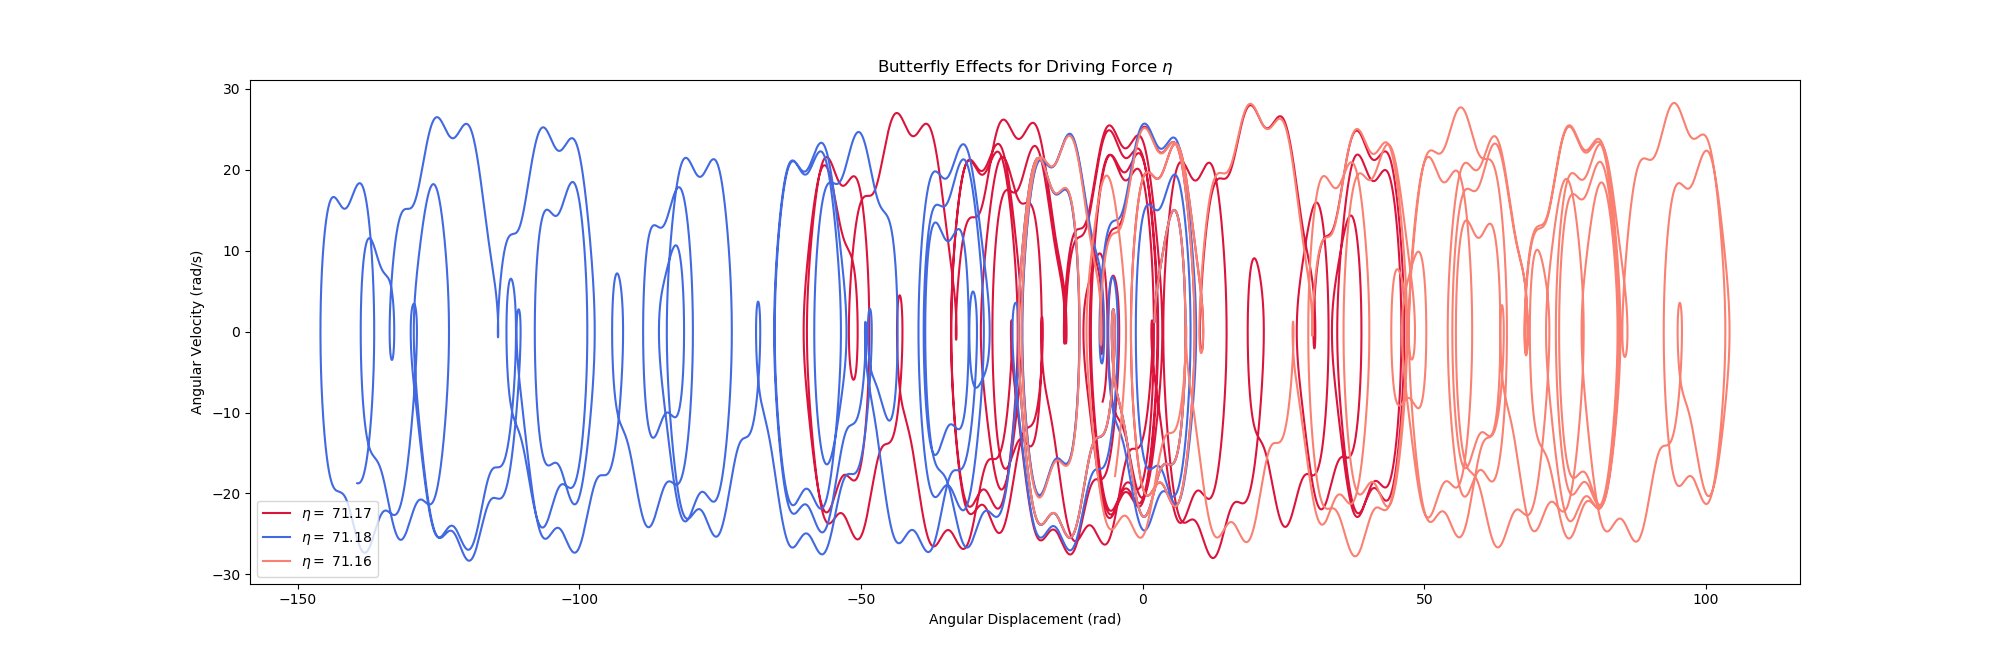
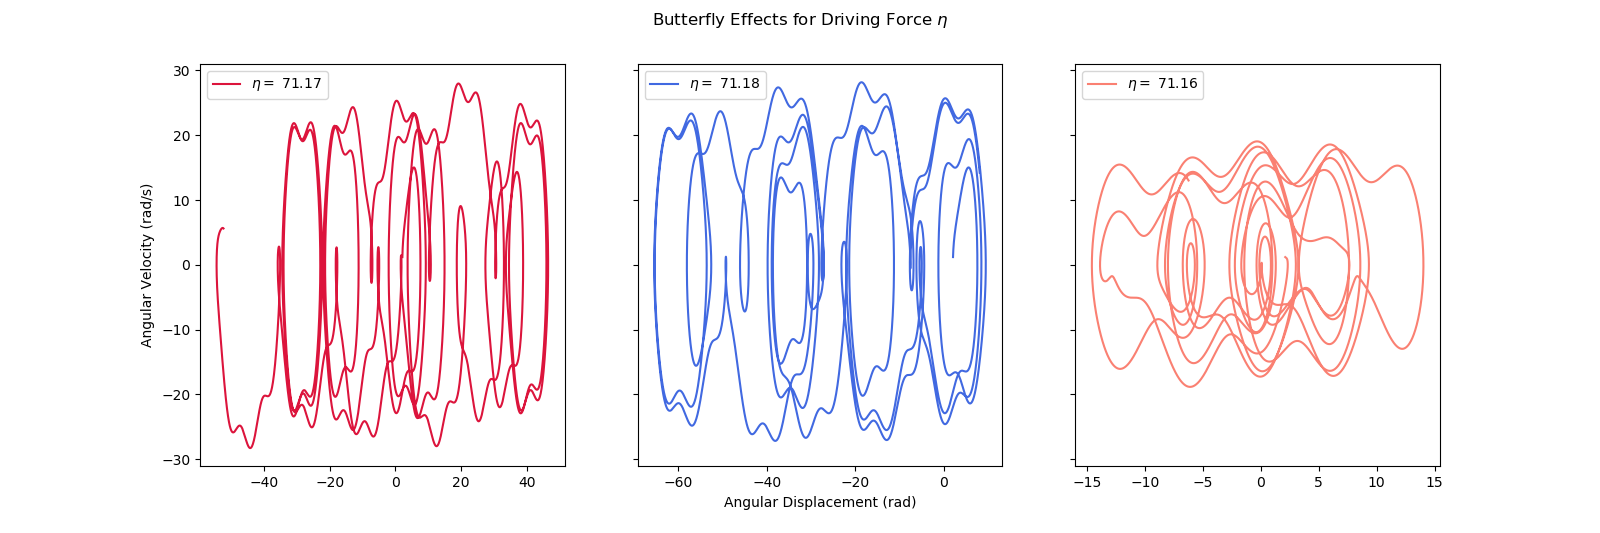
bifurcation now works

diff --git a/Pendulum Code/bifurcation.py b/Pendulum Code/bifurcation.py
@@ -30,20 +30,20 @@ I = (1/3)*m_1*L*L + (L+r)**2*m_2
 
 
 parameters['M'] = m_1 + m_2
-parameters['omega_0'] = 1 #np.sqrt((parameters['M']*g*L_cm)/I)
+parameters['omega_0'] = np.sqrt((parameters['M']*g*L_cm)/I)
 parameters['kappa'] = 0.1
-parameters['omega_d'] = 2
+parameters['omega_d'] = 0.56*np.sqrt((parameters['M']*g*L_cm)/I)
 parameters['eta'] = 30
 T_drive = (2*np.pi)/parameters['omega_d']
 print(parameters['omega_0'])
 print(parameters['omega_d'], T_drive, T_drive*150, parameters['kappa'])
 
-transtime = 150
-#when cos term is zero
-initialdrivetime = (transtime*np.arccos(0) + np.pi/2)/transtime*parameters['omega_d']
-numoftimes = 100000
+step = 0.001
+lim = 200
+num = int(lim/step)
 
-times = np.linspace(0, 500, 150000)
+times = np.linspace(0, lim, num + 1)
+
 y_0 = [1., 1.]
 
 yvals = RK4(pendulumTorque, y_0, times, parameters)
@@ -54,7 +54,7 @@ plotargs['lineshape'] = '-'
 
 #pp.displacementplot(times, yvals, plotargs)
 
-etas = np.linspace(0, 5, 1000)
+etas = np.linspace(45, 60, 50)
 velocities = [] 
 
 #def bifurcation()
@@ -64,16 +64,31 @@ for i in range(len(etas)):
     tol = 0.0006
     parameters['eta'] = etas[i]
     yvals = RK4(pendulumTorque, y_0, times, parameters)
-    l = 1
-    limit = int(numoftimes/2)
+    print(i)
+    limit = int(num/2)
     for t in times[limit:]:
-        k = np.where(times == t)
-        #print(k)
-        if np.abs(parameters['eta']*np.cos(parameters['omega_d']*t
-                  +parameters['delta'])*np.sin(yvals[k,0])) <= tol:
-            vel = np.abs(yvals[k, 1][0][0])
+        k = int(np.where(times == t)[0])
+        
+        init = parameters['eta']*np.cos(parameters['omega_d']*times[k-2]
+                  +parameters['delta'])*np.sin(yvals[k-1,0])
+        
+        fin = parameters['eta']*np.cos(parameters['omega_d']*times[k]
+                  +parameters['delta'])*np.sin(yvals[k,0])
+        if init*fin<=0:
+            #print(init, fin)
+            vel = np.abs(yvals[k-1, 1])
+            #print(vel)
             velocities.append(vel)
-            break
+    et = [etas[i]] * len(velocities)
+    plt.plot(et, velocities, '.', c='crimson')
+    plt.xlabel(r'$\eta$')
+    plt.ylabel(r'$|\dot\phi|$')
+    plt.title(r'Bifurcation Diagram for Varying $\eta$')
+    plt.figaspect((3,2))
+    plt.rcParams((8,5.33))
+    
+    velocities = []
+            #break
             #plt.plot(etas[i], vel, ',', color='crimson')
         #l += 1    
         #if l == 150:
@@ -81,17 +96,19 @@ for i in range(len(etas)):
 print(etas)
 print(velocities)
 
-fig, axs = plt.subplots()
+plt.savefig('birfurcationdiagram.png', dpi=100)
 
-axs.plot(etas, velocities, ',', color='crimson')
-axs.set_title(r'Bifurcation Diagram for $\dot\phi = {},  \phi = {}, \omega_0 = {}, \omega_d = {}, \kappa = {}$'.format(y_0[1], y_0[0], 
-              parameters['omega_0'], parameters['omega_d'], parameters['kappa']))
+#fig, axs = plt.subplots()
 
-axs.set_xlabel(r'$\eta$')
-axs.set_ylabel(r'$|\dot\phi(t)|$')
-fig.set_size_inches(8, 5.33)
-fig.savefig('bifurcationdiagram.png', dpi=100)
-plt.show()
+#axs.plot(etas, velocities, '.', color='crimson')
+#axs.set_title(r'Bifurcation Diagram for $\dot\phi = {},  \phi = {}, \omega_0 = {}, \omega_d = {}, \kappa = {}$'.format(y_0[1], y_0[0], 
+ #             parameters['omega_0'], parameters['omega_d'], parameters['kappa']))
+
+#axs.set_xlabel(r'$\eta$')
+#axs.set_ylabel(r'$|\dot\phi(t)|$')
+#fig.set_size_inches(8, 5.33)
+#fig.savefig('bifurcationdiagram.png', dpi=100)
+#plt.show()
 
 
 

diff --git a/Pendulum Code/Section3-2.py b/Pendulum Code/Section3-2.py
@@ -39,7 +39,11 @@ parameters['delta'] = 0.
 
 T = (2*np.pi)/parameters['omega_0']
 
-times = np.linspace(0, 50, 100000)
+step = 0.001
+lim = 30
+num = int(lim/step)
+
+times = np.linspace(0, lim, num + 1)
 
 initialvals = np.linspace(np.pi/15, np.pi/1.1, 3)
 phi_in = 2.1
@@ -76,7 +80,7 @@ y2 = RK4(pendulum, y_0, times, parameters)
 
 parameters['kappa'] = 2*parameters['omega_0']*0.1
 parameters['omega_d'] = parameters['omega_0']*0.56
-parameters['eta'] = 71.16
+parameters['eta'] = 40
 y3 = RK4(pendulum, y_0, times, parameters)
 
 etas = [71.17, 71.18, 71.16]
@@ -89,23 +93,29 @@ axs1.set_xlabel('Time (s)')
 axs1.set_ylabel('Angular Displacement (rad)')
 axs1.set_title(r'Butterfly Effects for Driving Force $\eta$')
 axs1.legend(loc=3)
-fig1.set_size_inches(20, 6.67)
+fig1.set_size_inches(8, 5.33)
 fig1.savefig('butterflyeffect.png', dpi=100)
 plt.show()
 
 
 
-fig2, axs2 = plt.subplots()
+fig2, axs2 = plt.subplots(1,3, sharey=True)
 
-axs2.plot(y1[:,0], y1[:,1], '-', color='crimson', label=r'$\eta = $ {}'.format(etas[0]))
-axs2.plot(y2[:,0], y2[:,1], '-', color='royalblue', label=r'$\eta = $ {}'.format(etas[1]))
-axs2.plot(y3[:,0], y3[:,1], '-', color='salmon', label=r'$\eta = $ {}'.format(etas[2]))
+axs2[0].plot(y1[:,0], y1[:,1], '-', color='crimson', label=r'$\eta = $ {}'.format(etas[0]))
+axs2[1].plot(y2[:,0], y2[:,1], '-', color='royalblue', label=r'$\eta = $ {}'.format(etas[1]))
+axs2[2].plot(y3[:,0], y3[:,1], '-', color='salmon', label=r'$\eta = $ {}'.format(etas[2]))
 
-axs2.set_xlabel('Angular Displacement (rad)')
-axs2.set_ylabel('Angular Velocity (rad/s)')
-axs2.set_title(r'Butterfly Effects for Driving Force $\eta$')
-axs2.legend(loc=3)
-fig2.set_size_inches(20, 6.67)
+#axs2[0].set_xlabel('Angular Displacement (rad)')
+axs2[1].set_xlabel('Angular Displacement (rad)')
+#axs2[2].set_xlabel('Angular Displacement (rad)')
+
+axs2[0].set_ylabel('Angular Velocity (rad/s)')
+fig2.suptitle(r'Butterfly Effects for Driving Force $\eta$')
+axs2[0].legend(loc=2)
+axs2[1].legend(loc=2)
+axs2[2].legend(loc=2)
+
+fig2.set_size_inches(16, 5.33)
 fig2.savefig('butterflyphasespace.png', dpi=100)
 plt.show()
 

diff --git a/Pendulum Code/section3-1.py b/Pendulum Code/section3-1.py
@@ -30,22 +30,26 @@ I = (1/3)*m_1*L*L + (L+r)**2*m_2
 
 parameters['M'] = m_1 + m_2
 parameters['omega_0'] = np.sqrt((parameters['M']*g*L_cm)/I)
-parameters['omega_d'] = parameters['omega_0']*1.67
-parameters['kappa'] = 2*parameters['omega_0']*0.12
-parameters['eta'] = 23
+parameters['omega_d'] = parameters['omega_0']*0.56
+parameters['kappa'] = 2*parameters['omega_0']*0.1
+parameters['eta'] = 50
 parameters['delta'] = 0.
 
 
 T = (2*np.pi)/parameters['omega_0']
 
-times = np.linspace(0, 10, 25000)
+step = 0.001
+lim = 25
+num = int(lim/step)
+
+times = np.linspace(0, lim, num + 1)
 
 initialvals = np.linspace(np.pi/15, np.pi/1.1, 3)
 phi_in = 1.9
 vel_in = 1.2
 
 y_0 = np.array([phi_in, vel_in])
-yvals = RK4(pendulum, y_0, times, parameters)
+yvals = RK4(pendulumTorque, y_0, times, parameters)
 
 plotargs = pp.Plot_Arguments
 colors = ['orange', 'red', 'turquoise', 'coral', 'crimson', 'magenta', 'blueviolet', 'darkslategrey', 'royalblue'
@@ -68,11 +72,11 @@ plotargs['labelsize'] = 12
 
 ### convergent limit cycle
 
-y_1 = [-2.4, 5]
-y_2 = [1.9, -5]
+y_1 = [-2.4, 7.5]
+y_2 = [1.9, -7.5]
 
-y1 = RK4(pendulum, y_1, times, parameters)
-y2 = RK4(pendulum, y_2, times, parameters)
+y1 = RK4(pendulumTorque, y_1, times, parameters)
+y2 = RK4(pendulumTorque, y_2, times, parameters)
 
 fig, axes = plt.subplots(1, 2)
 
@@ -93,7 +97,7 @@ axes[1].set_xlabel('Angular Displacement (rad)')
 
 
 fig.tight_layout(pad=2.5)
-fig.legend(loc=2)
+axes[0].legend(loc=3)
 
 fig.suptitle(r'Convergent Limit Cycle for Different $\phi_0$')
 fig.set_size_inches(20, 6.67)

diff --git a/Pendulum Code/Section2.py b/Pendulum Code/Section2.py
@@ -45,7 +45,12 @@ parameters['omega_0'] = np.sqrt((parameters['M']*g*L_cm)/I)
 
 T = (2*np.pi)/parameters['omega_0']
 
-times = np.linspace(0, 5, 20000)
+step = 0.001
+lim = 5
+num = int(lim/step)
+
+times = np.linspace(0, lim, num + 1)
+
 
 initialvals = np.linspace(np.pi/15, np.pi/1.1, 3)
 phi_in = 0
@@ -207,7 +212,7 @@ ytic = [r'$T_0$', r'$1.6T_0$', r'$2.2T_0$', r'$2.8T_0$', r'$3.4T_0$', r'$4T_0$']
 
 
 plt.plot(initialvals, periods, '-', color = 'crimson')
-plt.title(r'Divergence of Period as $\phi_0 \to \pi$')
+plt.title(r'Divergence of Period as $\phi_0 \to \pi$', fontsize=18)
 plt.xlabel(r'$\phi_0$ (rad)', fontsize=12)
 plt.ylabel('Period (s)', fontsize=12)
 plt.axvline(np.pi, color = 'k', linestyle = '--')

diff --git a/Pendulum Code/section1.py b/Pendulum Code/section1.py
@@ -52,8 +52,11 @@ print(parameters['omega_0'])
 ### ======================================================================
 ### Create a time interval and some initial conditions.
 ### ======================================================================
+step = 0.001
+lim = 5
+num = int(lim/step)
 
-times = np.linspace(0, 5, 20000)
+times = np.linspace(0, lim, num +1)
 initialvals = np.linspace(np.pi/15, np.pi/1.1, 3)
 phi_in = np.pi/20
 vel_in = 0
